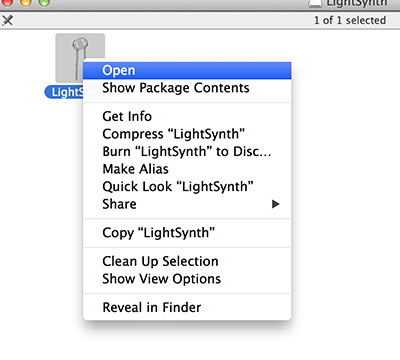
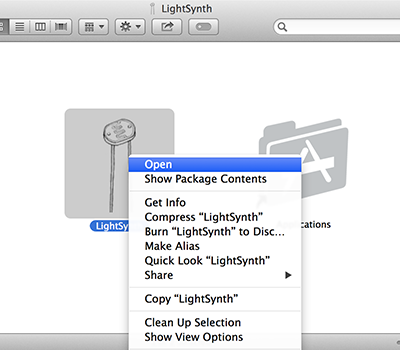
Updated screenshots and new download link

diff --git a/README.md b/README.md
@@ -1,8 +1,19 @@
-LightSynth
-=========
-Node-webkit app for translating light into midi notes.
+			    _       _         _      _     _____                _    _     
+			   | |     (_)       | |    | |   / ____|              | |  | |    
+			   | |      _   __ _ | |__  | |_ | (___   _   _  _ __  | |_ | |__  
+			   | |     | | / _` || '_ \ | __| \___ \ | | | || '_ \ | __|| '_ \ 
+			   | |____ | || (_| || | | || |_  ____) || |_| || | | || |_ | | | |
+			   |______||_| \__, ||_| |_| \__||_____/  \__, ||_| |_| \__||_| |_|
+			                __/ |                      __/ |                   
+			               |___/                      |___/                    
 
-You'll need an arduino compatible board. Upload the `LightSynth.ino` sketch to it and hook up 4 photoresistors in this fashion:
+	---------------------------------------------------------------------------------------
+
+Desktop app for translating light into midi messages.
+
+You'll need an arduino compatible board.
+
+Upload the `LightSynth.ino` sketch to it and hook up 4 photoresistors in this fashion:
 
                PhotoR     10K
      +5V   o---/\/\/--.--/\/\/---o GND
@@ -14,9 +25,9 @@ These are two photoresistors for each hand. The left hand controls the pitch & t
 Enjoy! ;P
 
 ## Downloads
-**v1.0.1:** (Aug 22, 2014)
+**v1.0.2:** (Aug 22, 2014)
 
- * Mac: [32bit, 10.7+](https://github.com/danielesteban/LightSynth/releases/download/v1.0.1/LightSynth-darwin.dmg)
+ * Mac: [32bit, 10.7+](https://github.com/danielesteban/LightSynth/releases/download/v1.0.2/LightSynth-darwin.dmg)
 
 ![Connect View](https://raw.githubusercontent.com/danielesteban/LightSynth/master/screenshots/connect.png)
 
